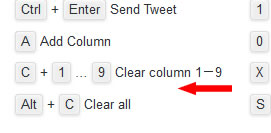
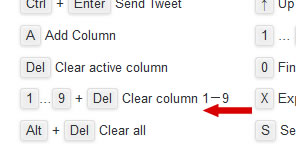
Clear active column #1

diff --git a/TweetDeck_Clear.user.js b/TweetDeck_Clear.user.js
@@ -1,7 +1,7 @@
 // ==UserScript==
 // @name    TweetDeck Clear
 // @namespace   http://b1nj.fr
-// @version 0.5
+// @version 0.6
 // @icon https://ton.twimg.com/tweetdeck-web/web/assets/logos/favicon.3d5d8f1cbe.ico
 // @description Add buttons and keyboard shortcuts to tweetdeck for clear all tweets or column tweets
 // @match   https://tweetdeck.twitter.com/*
@@ -18,17 +18,17 @@ $(function() {
     // Wait for the complete loading of the ajax page
     // I have tried unsuccessfully other solutions with ajaxStop() for example.
     window.setTimeout(load, 5000);
-    
+
     function load() {
         addButtons();
         addKeyboardShortcuts();
         addTextKeyboardShortcuts();
     }
-    
+
 
     var button = '<button style="position: absolute; right: 10px; top: -10px; padding-bottom: 0px;" type="button" class="js-user-button btn btn-alt btn-neutral btn-options-tray padding-hn "> <i class="icon icon-clear-timeline"></i> <span class="label">Clear</span> </button>';
     var buttonAll = '<a type="button" class="js-user-buttonAll padding-hl app-nav-link cf"><div class="obj-left"> <i class="icon icon-clear-timeline"></i> </div> <div class="nbfc padding-ts hide-condensed">Clear all</div> </a>';
-    
+
     function addButtons() {
 
         // Buttons clear
@@ -59,23 +59,32 @@ $(function() {
         });
         $('a[data-action="options"]', $col).trigger('click');
     }
-    
-    
+
+
     // Add Keyboard shortcuts
     var key = [];
     function addKeyboardShortcuts() {
         $(document).on("keydown keyup", function(e){
             key[e.keyCode] = e.type == 'keydown';
 
-            if (test_key('C') && $('.js-column.is-focused').length) {
-                $('.js-column.is-focused').find('.js-user-button').trigger('click');
-                key = [];
+            if (test_key('del')) {
+                $jsColumnFocused = $('.js-column.is-focused');
+                if ($jsColumnFocused.length) {
+                    $jsColumnFocused.find('.js-user-button').trigger('click');
+                    key = [];
+                }
+
+                $isSelectedTweet = $('.is-selected-tweet');
+                if ($isSelectedTweet.length) {
+                    $isSelectedTweet.parents('.js-column').find('.js-user-button').trigger('click');
+                    key = [];
+                }
             }
 
-            if (test_keys('alt', 'C')) {
+            if (test_keys('alt', 'del')) {
                 $('.js-user-buttonAll').trigger('click');
                 key = [];
-            }        
+            }
         });
     }
 
@@ -86,6 +95,7 @@ $(function() {
             "ctrl":  17,
             "shift": 16,
             "C":     67,
+            "del":   46,
         };
         return key[selkey] || key[alias[selkey]];
     }
@@ -101,18 +111,19 @@ $(function() {
         }
         return status;
     }
-    
-    
+
+
     // Add text Keyboard shortcuts in modal
-    var txt  = '<dd id="js-keyboard-clear" class="keyboard-shortcut-definition"><span class="text-like-keyboard-key">C</span> + <span class="text-like-keyboard-key">1</span> … <span class="text-like-keyboard-key">9</span>  Clear column 1－9</dd>'
-             + '<dd class="keyboard-shortcut-definition"><span class="text-like-keyboard-key">Alt</span> + <span class="text-like-keyboard-key">C</span> Clear all</dd>';
-       
+    var txt  = '<dd class="keyboard-shortcut-definition"><span class="text-like-keyboard-key">Del</span> Clear active column</dd>'
+             + '<dd id="js-keyboard-clear" class="keyboard-shortcut-definition"><span class="text-like-keyboard-key">1</span>…<span class="text-like-keyboard-key">9</span> + <span class="text-like-keyboard-key">Del</span>  Clear column 1－9</dd>'
+             + '<dd class="keyboard-shortcut-definition"><span class="text-like-keyboard-key">Alt</span> + <span class="text-like-keyboard-key">Del</span> Clear all</dd>';
+
     function addTextKeyboardShortcuts() {
        $('#open-modal').on("DOMSubtreeModified", function(){
            if (!$('#js-keyboard-clear').length) {
                $('.keyboard-shortcut-list').first().append(txt);
            }
        });
-    }    
+    }
 
 });
